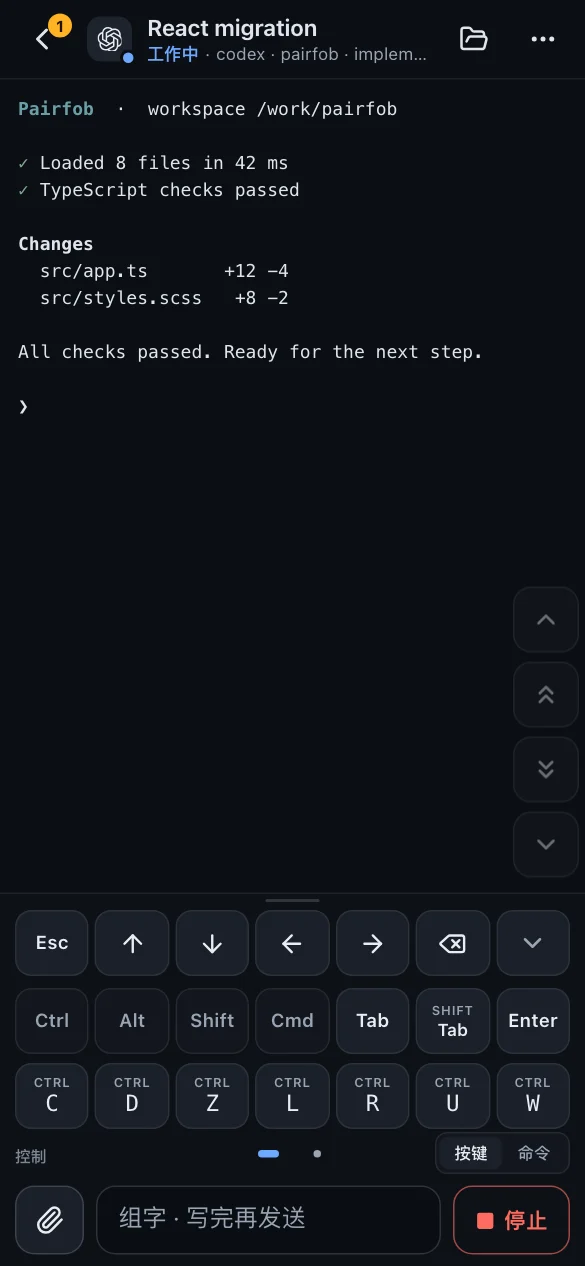
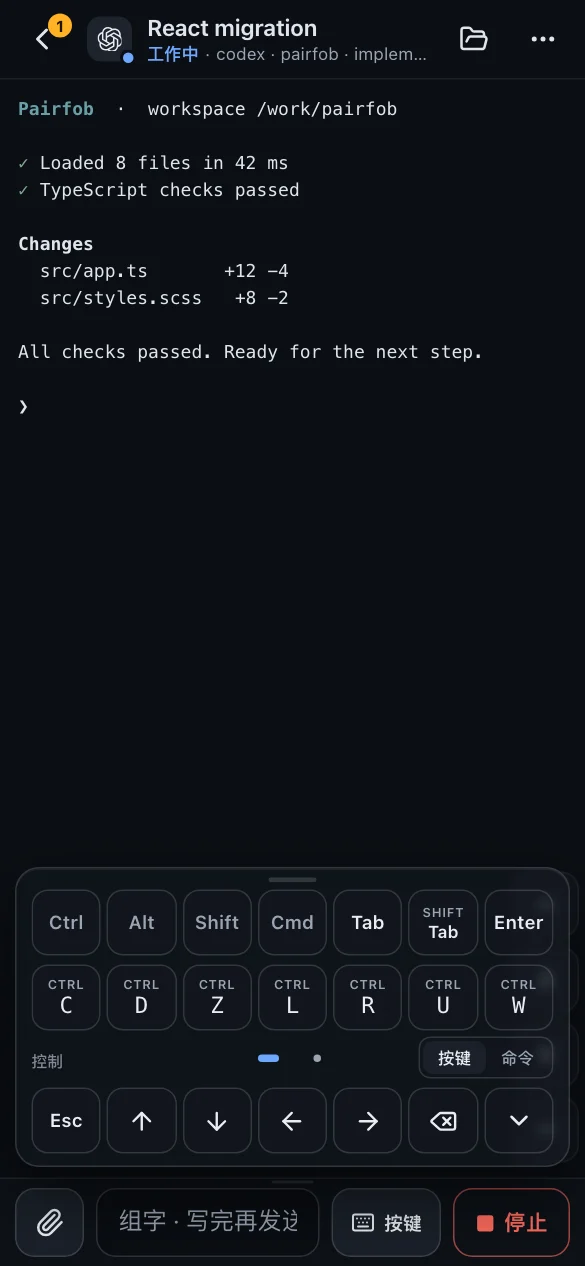
docs: refresh the stills for the floating key pad

diff --git a/site/doc/app.md b/site/doc/app.md
@@ -91,7 +91,7 @@ In **Control**:
 - Swipe or **Page up** pages the live view; it does not dump history
 - Font size is remembered
 - Long lines can wrap or not
-- The first keypad row is Esc, arrows and Backspace. `···` expands it; switch between **Keys** and **Commands**. Keys has two pages, **Control** (Ctrl, Alt, Shift, Cmd, Tab, Shift+Tab, Enter, Ctrl+C and more) and **Select & edit**; Commands holds the agent's slash commands (such as `/clear`; tapping one puts it at the start of your draft, or types it into the terminal in Live input. Neither presses Enter, and Pairfob does not interpret them) and your own saved commands, which you can add, edit and reorder
+- The keypad opens above the compose field from **Keys** beside it, as a floating panel over the terminal; opening it never resizes the program on the computer. Its nearest row is Esc, arrows and Backspace; **⌄** folds the panel to that row and **⋯** brings the full pad back. Switch between **Keys** and **Commands**. Keys has two pages, **Control** (Ctrl, Alt, Shift, Cmd, Tab, Shift+Tab, Enter, Ctrl+C and more) and **Select & edit**; Commands holds the agent's slash commands (such as `/clear`; tapping one puts it at the start of your draft, or types it into the terminal in Live input. Neither presses Enter, and Pairfob does not interpret them) and your own saved commands, which you can add, edit and reorder
 
 When the Agent waits on you in **Chat**, the turn shows a **Needs your confirmation** card with the prompt from the terminal. When that prompt is a numbered list (Claude Code and Codex approvals), pick an option on the card and tap **Send choice**: before sending, the computer checks that the terminal screen has not changed; if it has, the card reads it again and asks you to choose again. Nothing is resent on its own. Other prompts show the last lines of the terminal. **Handle in terminal** always switches to **Control**; check the operation and current selection before confirming.
 
@@ -129,7 +129,7 @@ With a mouse, **＋** opens a menu of recent combinations whose last row, **New 
 - Hover a row in the list for **Pin** and **More**, plus **Read** on an unread finished session: the same buttons a swipe reveals
 - Right-click a row, a group heading, or a pane or tab on the board for its menu
 - Menus and panels open where you clicked, and dialogs are centered cards; a finger still gets bottom sheets
-- In **Control** the keypad folds behind **Keys** beside the compose field, a **Compose** / **Live** switch sits under the field, and terminal text can be selected by dragging
+- In **Control** the keypad opens from **Keys** beside the compose field as a floating panel over the terminal, the **Compose** / **Live** switch sits in the field's right end, and terminal text can be selected by dragging
 
 With a hardware keyboard:
 
